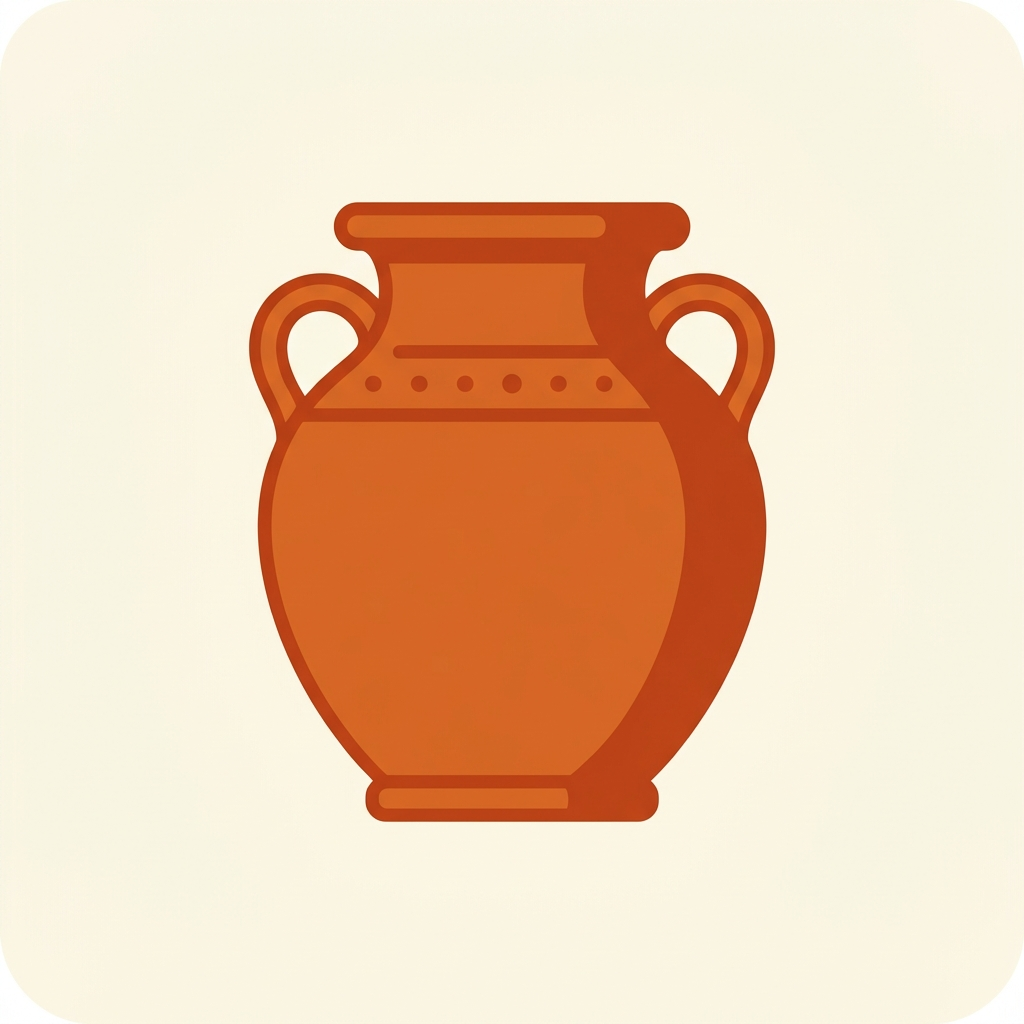
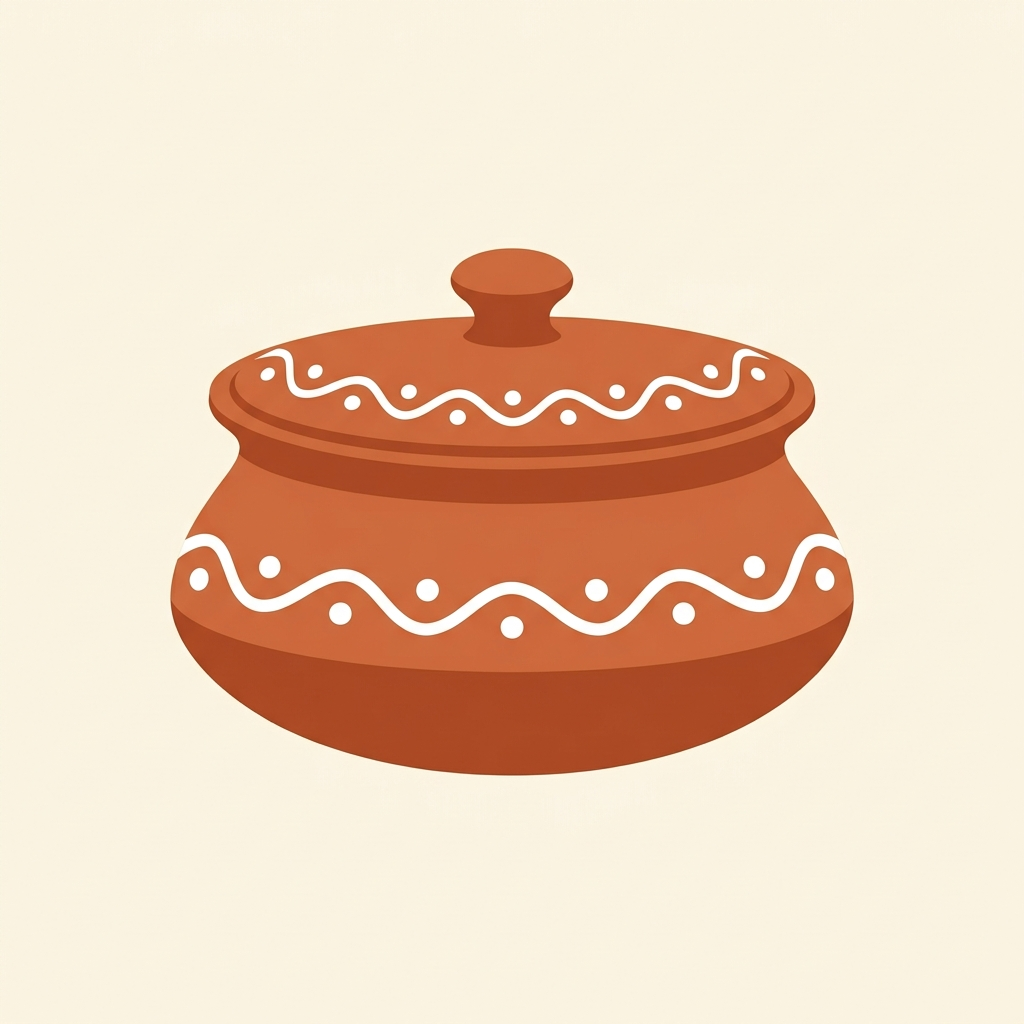
Add files via upload

diff --git a/index.html b/index.html
@@ -44,21 +44,30 @@
   <header class="navbar">
     <a href="#/" class="nav-brand">
       <!-- Cooking Clay Handi Pot Logo Icon -->
-      <svg class="logo-icon" viewBox="0 0 64 64" style="fill: none; stroke: var(--text-dark); stroke-width: 3; stroke-linecap: round; stroke-linejoin: round;">
-        <!-- Handi Domed Lid and Top Knob -->
-        <path d="M 20 20 C 20 13, 44 13, 44 20 Z" fill="var(--primary-color)" />
-        <path d="M 32 13 L 32 9" stroke="var(--text-dark)" stroke-width="3.5" />
-        <circle cx="32" cy="8" r="2.5" fill="var(--text-dark)" />
-        <!-- Wide Flat Rim/Collar -->
-        <rect x="14" y="20" width="36" height="5" rx="2.5" fill="var(--primary-color)" stroke="var(--text-dark)" stroke-width="3" />
-        <!-- Bulbous Handi Body -->
-        <path d="M 16 25 C 10 25, 8 40, 8 46 C 8 53, 18 56, 32 56 C 46 56, 56 53, 56 46 C 56 40, 54 25, 48 25 Z" fill="var(--primary-color)" stroke="var(--text-dark)" stroke-width="3" />
-        <!-- Low Curved loop handles on the belly sides -->
-        <path d="M 8 36 C 3 36, 3 44, 8 44" stroke="var(--text-dark)" stroke-width="3" />
-        <path d="M 56 36 C 61 36, 61 44, 56 44" stroke="var(--text-dark)" stroke-width="3" />
-        <!-- Painted white leaf/chevron slips -->
-        <path d="M 16 34 L 20 30 L 24 34 M 28 34 L 32 30 L 36 34 M 40 34 L 44 30 L 48 34" stroke="#FFFFFF" stroke-width="2.5" />
-        <path d="M 12 43 Q 32 47, 52 43" stroke="#FFFFFF" stroke-width="2" stroke-dasharray="2 3" />
+      <svg class="logo-icon" viewBox="0 0 64 64" style="fill: none; stroke: var(--text-dark); stroke-width: 3.2; stroke-linecap: round; stroke-linejoin: round;">
+        <!-- Handi Squat Lid and Knob -->
+        <path d="M 18 20 C 18 13, 46 13, 46 20 Z" fill="var(--primary-color)" />
+        <path d="M 32 13 L 32 8" stroke="var(--text-dark)" stroke-width="3" />
+        <circle cx="32" cy="7.5" r="2" fill="var(--text-dark)" />
+        
+        <!-- Wide Pot Collar Rim -->
+        <rect x="12" y="20" width="40" height="5" rx="2.5" fill="var(--primary-color)" stroke="var(--text-dark)" stroke-width="3" />
+        
+        <!-- Squat Wide Handi Body -->
+        <path d="M 14 25 C 6 25, 4 44, 4 48 C 4 55, 16 57, 32 57 C 48 57, 60 55, 60 48 C 60 44, 58 25, 50 25 Z" fill="var(--primary-color)" stroke="var(--text-dark)" stroke-width="3" />
+        
+        <!-- Wavy white painted slip line on the belly -->
+        <path d="M 8 40 Q 14 36, 20 40 T 32 40 T 44 40 T 56 40" stroke="#FFFFFF" stroke-width="2.2" />
+        
+        <!-- White painted slip dots above and below the wave valleys/crests -->
+        <circle cx="11" cy="35" r="1.5" fill="#FFFFFF" stroke="none" />
+        <circle cx="17" cy="45" r="1.5" fill="#FFFFFF" stroke="none" />
+        <circle cx="23" cy="35" r="1.5" fill="#FFFFFF" stroke="none" />
+        <circle cx="29" cy="45" r="1.5" fill="#FFFFFF" stroke="none" />
+        <circle cx="35" cy="35" r="1.5" fill="#FFFFFF" stroke="none" />
+        <circle cx="41" cy="45" r="1.5" fill="#FFFFFF" stroke="none" />
+        <circle cx="47" cy="35" r="1.5" fill="#FFFFFF" stroke="none" />
+        <circle cx="53" cy="45" r="1.5" fill="#FFFFFF" stroke="none" />
       </svg>
       <div style="display: flex; flex-direction: column;">
         <span style="font-weight: 700; letter-spacing: 0.5px;">Mitti Ky Bartan</span>